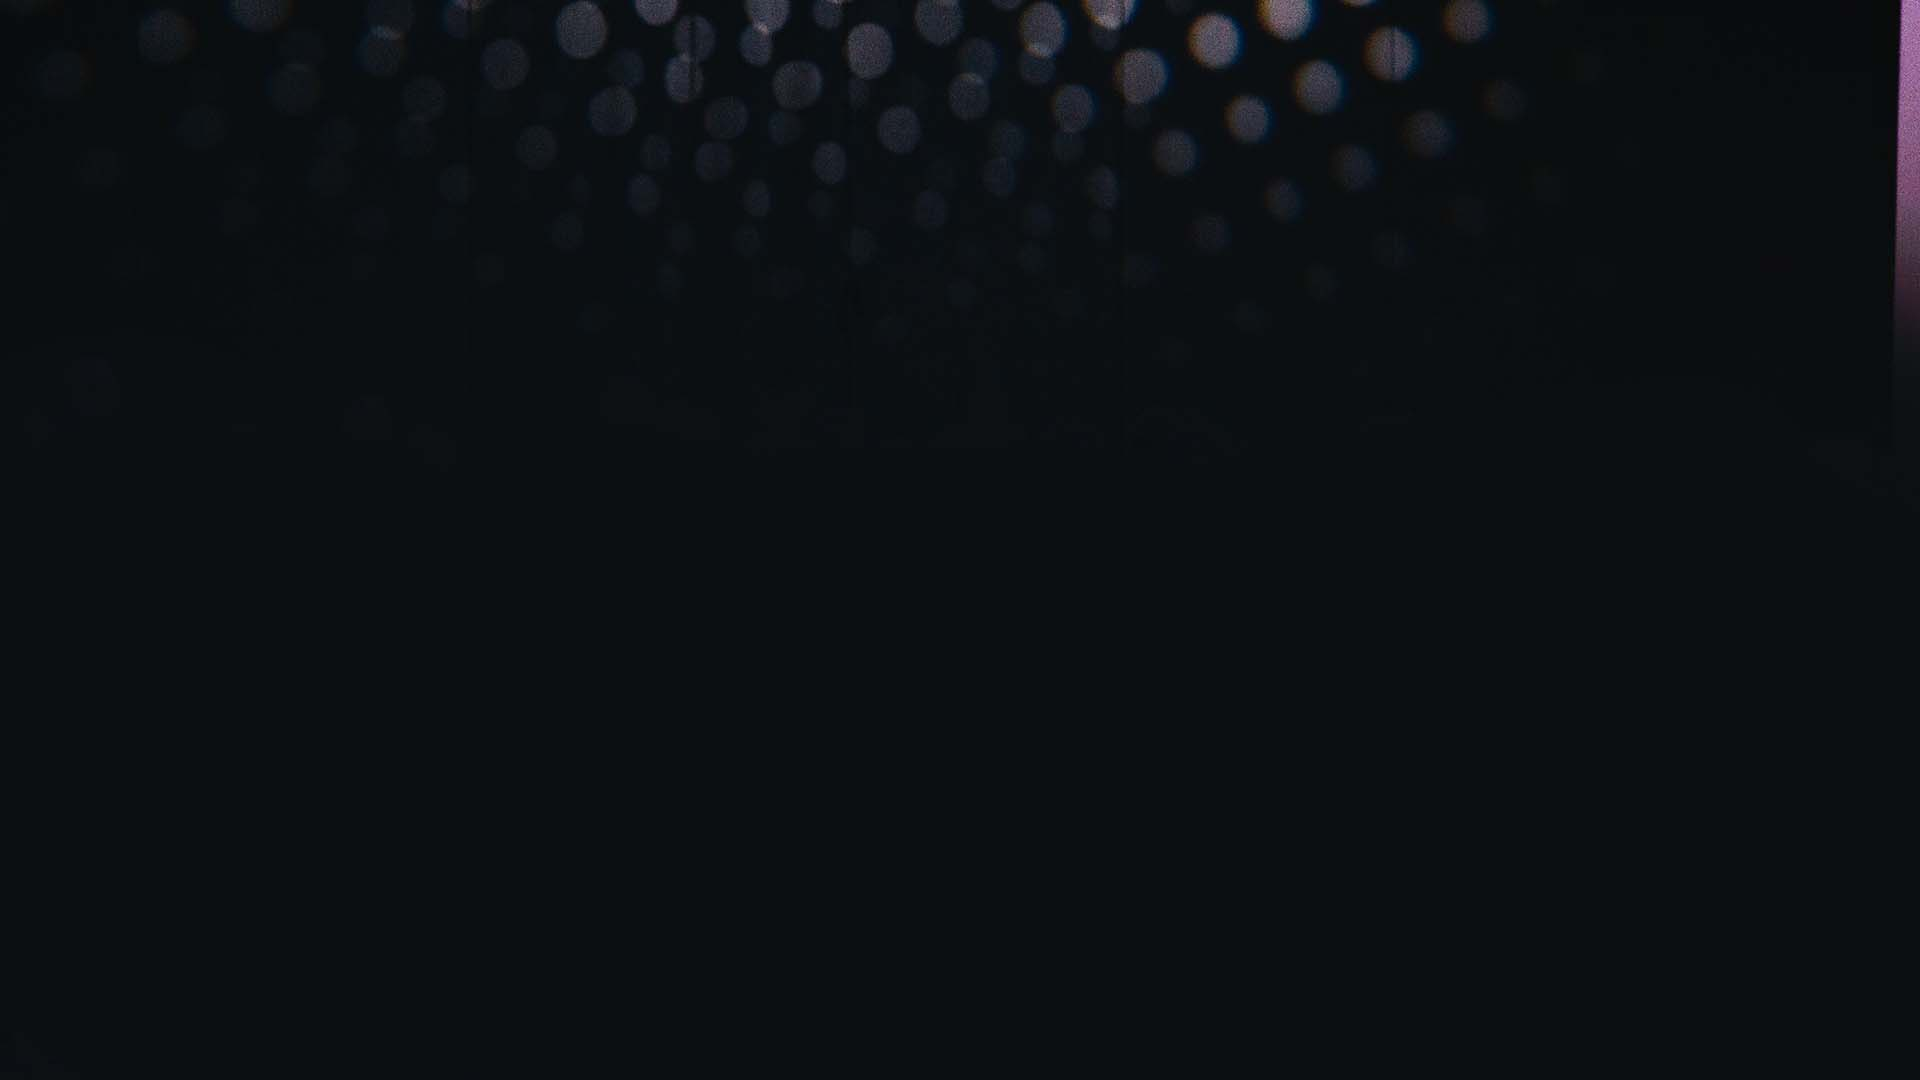
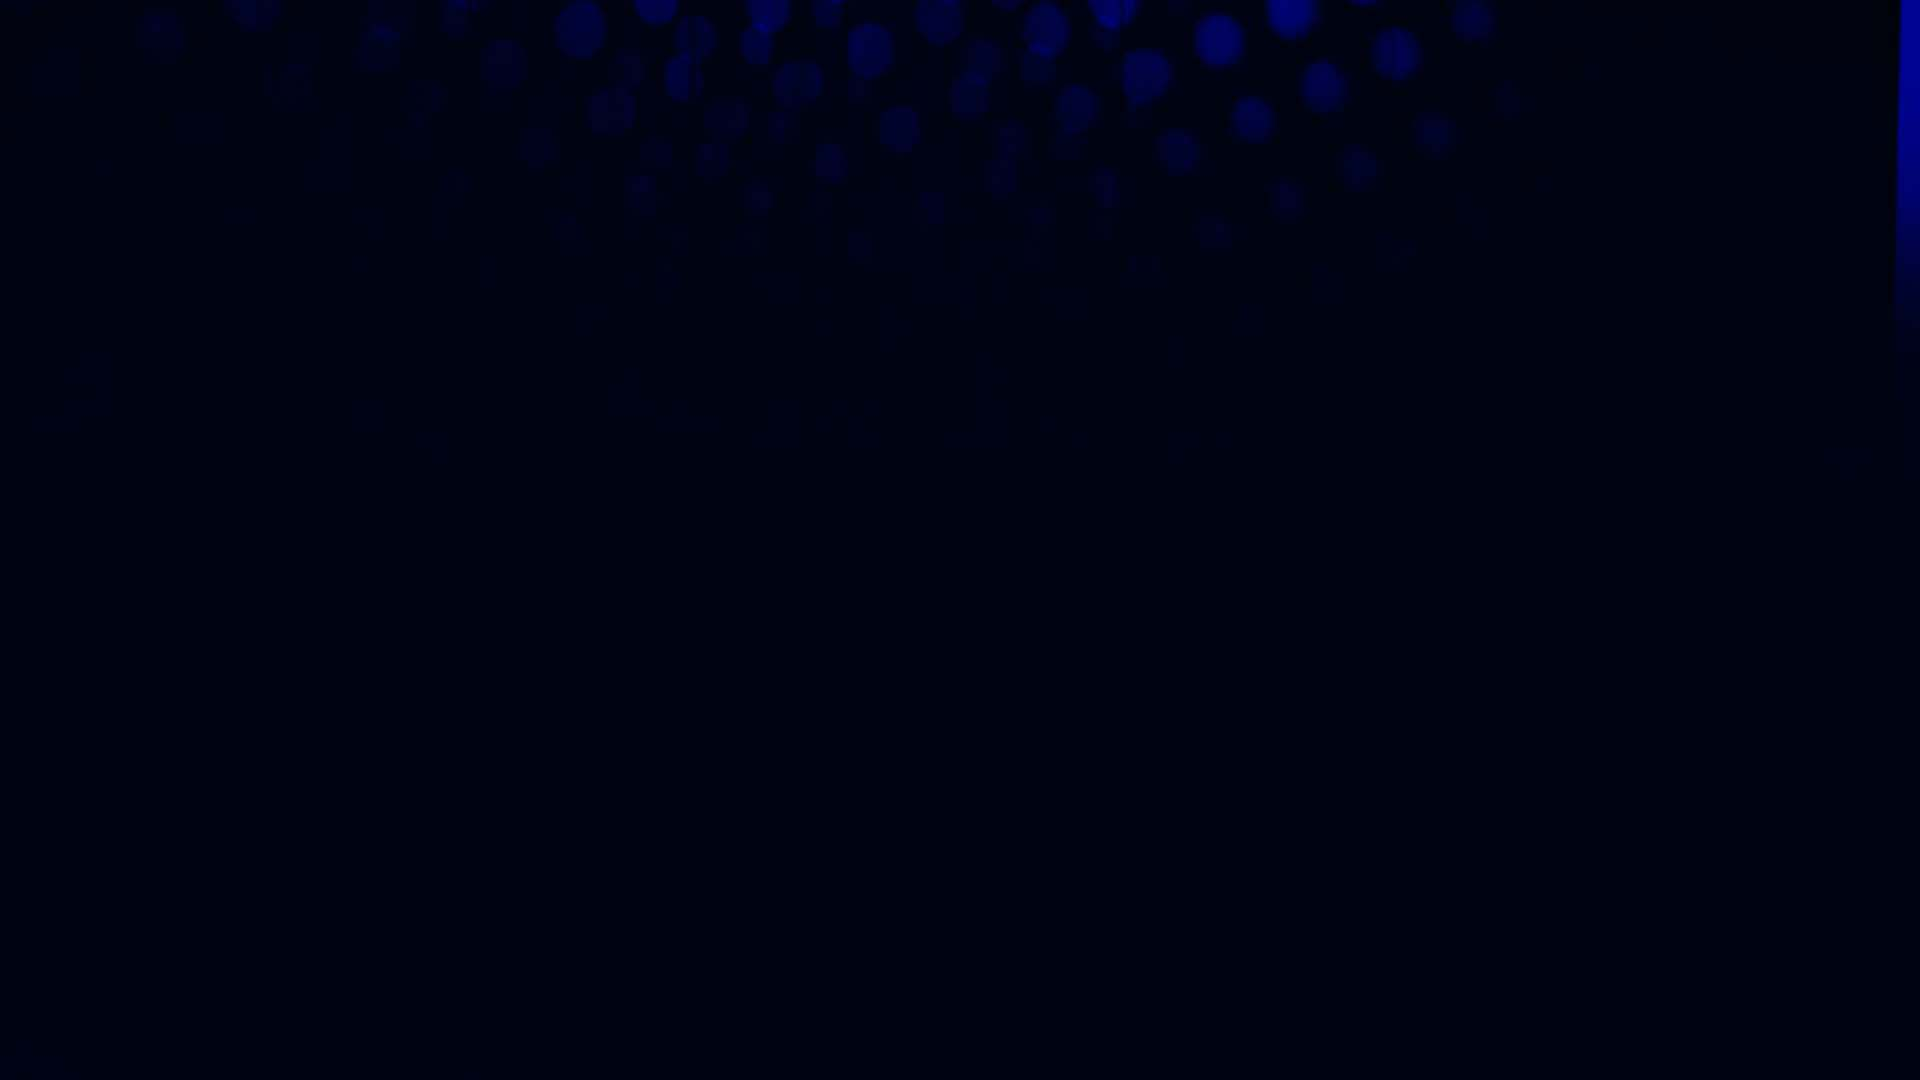
Updated Themes & Register page form

diff --git a/src/assets/css/colors/orange-red-grad.css b/src/assets/css/colors/orange-red-grad.css
@@ -1,11 +1,11 @@
 a{
-  color: #287770;
+  color: #000390;
 }
 a:hover, a:focus{
-  color: #287770;
+  color: #49d768;
 }
 .btn-common{
-    background-color: #287770;
+    background-color: #49d768;
 }
 .slicknav_btn{
   background: rgb(49,0,112);
@@ -16,16 +16,16 @@ filter: progid:DXImageTransform.Microsoft.gradient(startColorstr="#310070",endCo
 }
 .section-title:before,
 .section-title:after{
-  color: #287770;
+  color: #49d768;
 }
 .navbar li.active a.nav-link{
-  color: #287770 !important;
+  color: #49d768 !important;
 }
 .top-nav-collapse .navbar-nav li.active a.nav-link{
-  color: #287770 !important;
+  color: #49d768 !important;
 }
 .navbar-expand-lg .navbar-nav li > a:before{
-  background: #287770 !important;
+  background: #49d768 !important;
  /* background: rgb(240,135,24);
    background: -moz-linear-gradient(-45deg,  rgba(240,135,24,1) 0%, rgba(242,12,58,1) 100%);
   background: -webkit-linear-gradient(-45deg,  rgba(240,135,24,1) 0%,rgba(242,12,58,1) 100%);
@@ -33,10 +33,10 @@ filter: progid:DXImageTransform.Microsoft.gradient(startColorstr="#310070",endCo
   filter: progid:DXImageTransform.Microsoft.gradient( startColorstr='#f08718', endColorstr='#f20c3a',GradientType=1 );  */
 }
 .navbar-expand-lg .navbar-nav .nav-link:focus, .navbar-expand-lg .navbar-nav .nav-link:hover{
-  color: #287770 !important;
+  color: #49d768 !important;
 }
 #hero-area .contents .icon i{
-  color: #287770;
+  color: #49d768;
 }
 #count .count-wrapper{
   background: rgb(49,0,112);
@@ -46,7 +46,7 @@ background: linear-gradient(90deg, rgba(49,0,112,1) 0%, rgba(0,3,144,1) 40%, rgb
 filter: progid:DXImageTransform.Microsoft.gradient(startColorstr="#310070",endColorstr="#49d768",GradientType=1);
 }
 .about-content ul li i{
-  color: #287770;
+  color: #49d768;
 }
 .ready-to-play:before{
     background: rgb(49,0,112);
@@ -56,7 +56,7 @@ background: linear-gradient(90deg, rgba(49,0,112,1) 0%, rgba(0,3,144,1) 40%, rgb
 filter: progid:DXImageTransform.Microsoft.gradient(startColorstr="#310070",endColorstr="#49d768",GradientType=1);
 }
 #information-bar ul li i{
-  color: #287770;
+  color: #49d768;
 }
 .single-intro-text .count-number{
     background: rgb(49,0,112);
@@ -66,7 +66,7 @@ background: linear-gradient(90deg, rgba(49,0,112,1) 0%, rgba(0,3,144,1) 40%, rgb
 filter: progid:DXImageTransform.Microsoft.gradient(startColorstr="#310070",endColorstr="#49d768",GradientType=1);
 }
 .single-intro-text:hover i{
-  color: #287770;
+  color: #49d768;
 }
 .counter-section .counter .icon{
     background: rgb(49,0,112);
@@ -83,7 +83,7 @@ background: linear-gradient(90deg, rgba(49,0,112,1) 0%, rgba(0,3,144,1) 40%, rgb
 filter: progid:DXImageTransform.Microsoft.gradient(startColorstr="#310070",endColorstr="#49d768",GradientType=1);
 }
 .schedule .nav-tabs .nav-item.show .nav-link:before, .schedule .nav-tabs .nav-link.active:before{
-  border-color: #287770 transparent transparent transparent;
+  border-color: #49d768 transparent transparent transparent;
 }
 .schedule .card .schedule-slot-time{
     background: rgb(49,0,112);
@@ -93,10 +93,10 @@ background: linear-gradient(90deg, rgba(49,0,112,1) 0%, rgba(0,3,144,1) 40%, rgb
 filter: progid:DXImageTransform.Microsoft.gradient(startColorstr="#310070",endColorstr="#49d768",GradientType=1);
 }
 .schedule .card-body .location span{
-  color: #287770;
+  color: #49d768;
 }
 .team-item .info-text h3 a:hover{
-  color: #287770;
+  color: #49d768;
 }
 #gallery .gallery-box:hover .overlay-box{
   background: rgb(49,0,112);
@@ -106,16 +106,16 @@ background: linear-gradient(90deg, rgba(49,0,112,1) 0%, rgba(0,3,144,1) 40%, rgb
 filter: progid:DXImageTransform.Microsoft.gradient(startColorstr="#310070",endColorstr="#49d768",GradientType=1);
 }
 #gallery .gallery-box .overlay-box i{
-  color: #287770;
+  color: #49d768;
 }
 #event-up .event-item .content a{
-  color: #287770;
+  color: #49d768;
 }
 #pricing .price-block-wrapper .price h2{
-  color: #287770;
+  color: #49d768;
 }
 #pricing .price-block-wrapper .pricing-list ul li i{
-  color: #287770;
+  color: #49d768;
 }
 #pricing .active{
     background: rgb(49,0,112);
@@ -132,19 +132,19 @@ background: linear-gradient(90deg, rgba(49,0,112,1) 0%, rgba(0,3,144,1) 40%, rgb
 filter: progid:DXImageTransform.Microsoft.gradient(startColorstr="#310070",endColorstr="#49d768",GradientType=1);
 }
 .blog-item .meta-tags span i{
-  color: #287770;
+  color: #49d768;
 }
 .container-form .form-wrapper .form-control:focus{
-  border-color: #287770;
+  border-color: #49d768;
 }
 #contact-text ul li i{
-  color: #287770;
+  color: #49d768;
 }
 .subscribe-inner .form-control:focus{
-  border-color: #287770;
+  border-color: #49d768;
 }
 .site-info a:hover{
-  color: #287770;
+  color: #49d768;
 }
 a.back-to-top i{
     background: rgb(49,0,112);
@@ -161,54 +161,54 @@ background: linear-gradient(90deg, rgba(49,0,112,1) 0%, rgba(0,3,144,1) 40%, rgb
 filter: progid:DXImageTransform.Microsoft.gradient(startColorstr="#310070",endColorstr="#49d768",GradientType=1);
 }
 .page-header ul li{
-  color: #287770;
+  color: #49d768;
 }
 .page-header ul li a:hover{
-  color: #287770;
+  color: #49d768;
 }
 .blog-post .post-content .meta .meta-part a:hover{
-  color: #287770;
+  color: #49d768;
 }
 .post-title a:hover{
-  color: #287770;
+  color: #49d768;
 }
 #pagination .current{
-  color: #287770;
+  color: #49d768;
 }
 #pagination a:hover{
-  color: #287770;
+  color: #49d768;
 }
 .widget-search input[type="search"]:focus{
-  border-color: #287770;
+  border-color: #49d768;
 }
 .widget-title{
-  border-color: #287770;
+  border-color: #49d768;
 }
 #sidebar .posts-list .widget-content a:hover{
-  color: #287770;
+  color: #49d768;
 }
 #sidebar .cat-list li a:hover{
-  color: #287770;
+  color: #49d768;
 }
 .post-slide .post-content .meta .meta-part a:hover{
-  color: #287770;
+  color: #49d768;
 }
 .post-slide .post-content h3 a:hover{
-  color: #287770;
+  color: #49d768;
 }
 #sidebar .tag a:hover{
-  color: #287770;
-  border-color: #287770;
+  color: #49d768;
+  border-color: #49d768;
 }
 #comments .comment-content .comment-by a:hover{
-  color: #287770;
+  color: #49d768;
 }
 #comments .comment-content .comment-date{
-  color: #287770;
+  color: #49d768;
 }
 .reply-link{
-  color: #287770;
+  color: #49d768;
 }
 .form-control:focus{
-  border-color: #287770;
+  border-color: #49d768;
 }

diff --git a/src/assets/css/main.css b/src/assets/css/main.css
@@ -123,7 +123,7 @@ input, select, textarea {background: #fff; color:rgba(0, 0, 92, 1)}
   -webkit-background-clip: text;
   -webkit-text-fill-color: transparent;}
 
-.text-blue-green{background: -webkit-linear-gradient(#000390, #49d768);
+.text-blue-green{background: #49d768;
   background-clip: text;
   -webkit-background-clip: text;
   -webkit-text-fill-color: transparent;}
